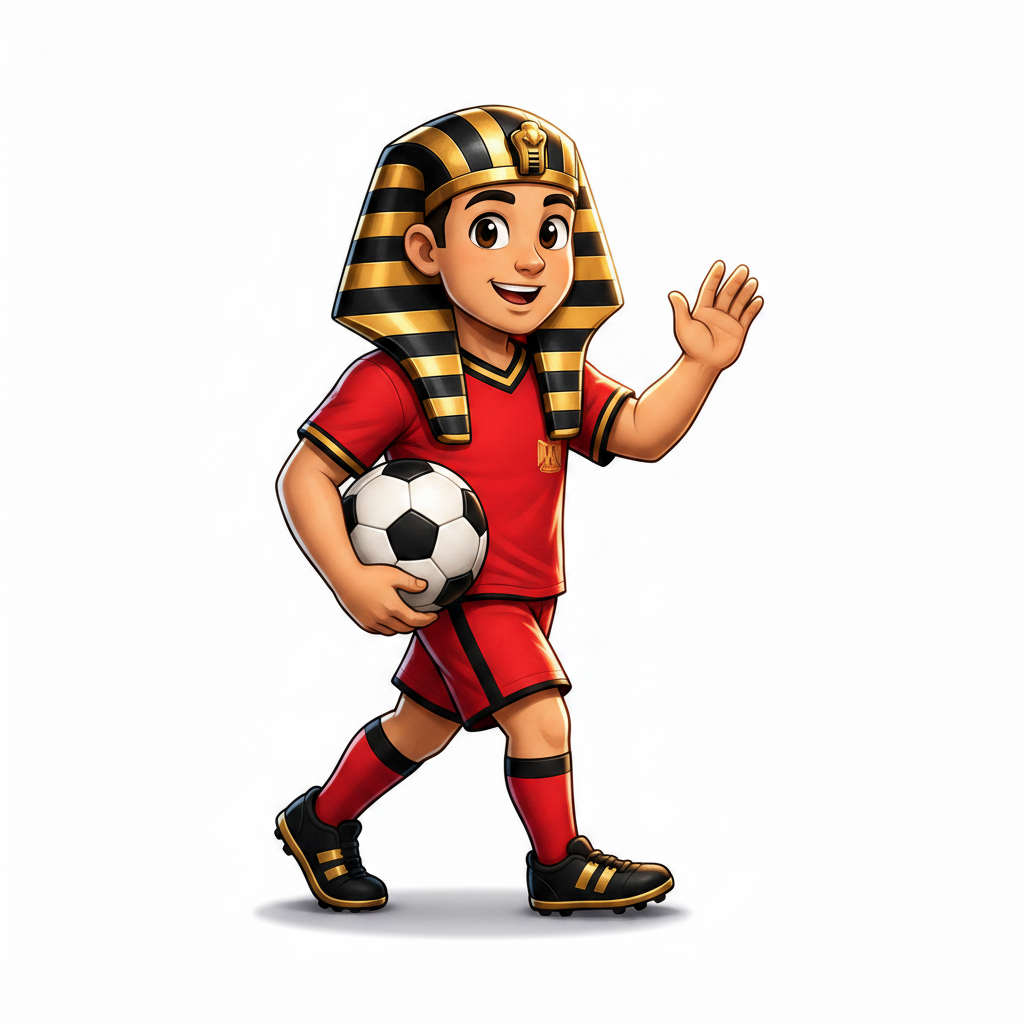
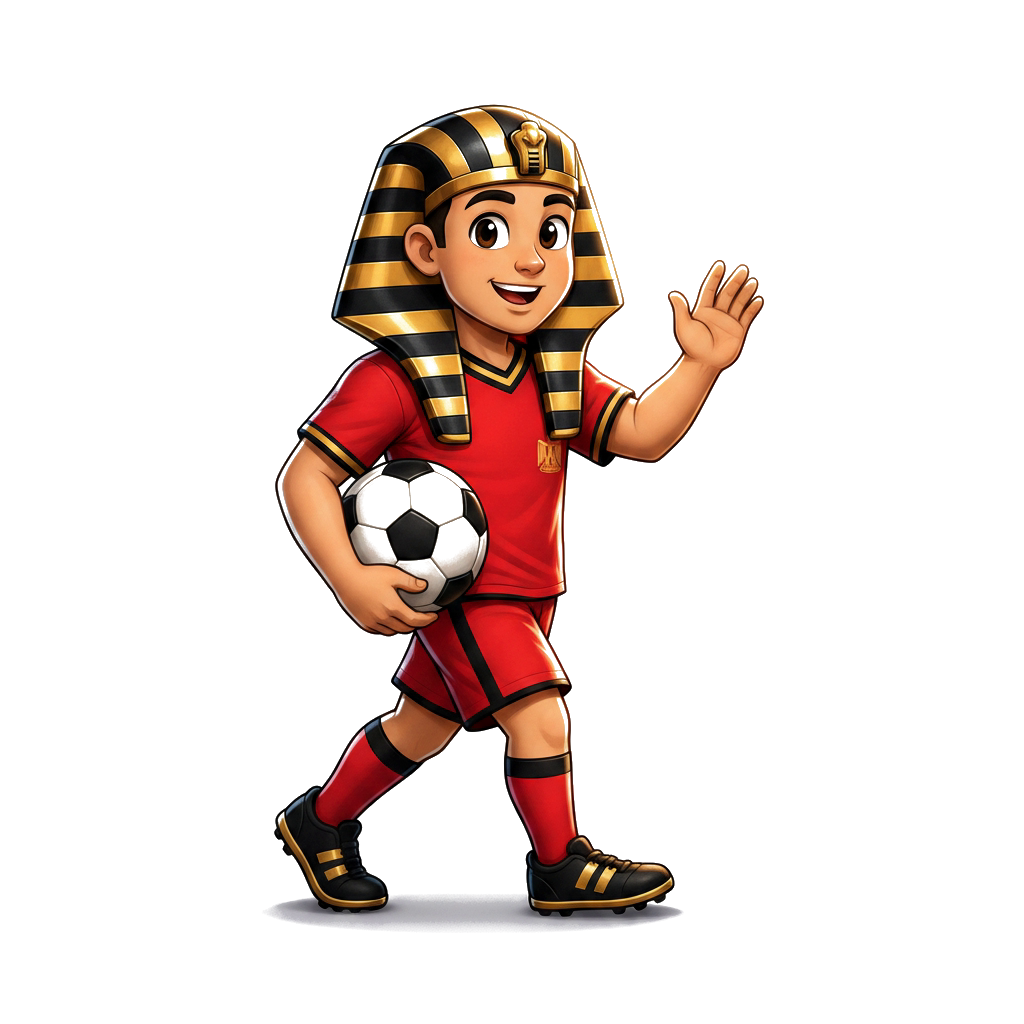
fix(intro+outro): kill white-box Pharaoh background
User reported the Pharaoh in the 05:21 UTC intro card had a visible
white square around it. Root cause: IntroCard.tsx and OutroCard.tsx
both rendered pose PNGs via raw <Img> without the WhiteKey runtime
processing that Host.tsx applies in per-segment scenes. The original
author intentionally skipped runtime keying expecting the drop-shadow
+ radial spotlight to mask the white edges, but at 1080p production
res the white rectangle reads clearly through the gradient backdrop.

Two-part fix, both zero-overhead:

1. IntroCard now uses OffthreadVideo loop muted on celebrating.webm
   (the alpha-baked WebM generated yesterday). Bonus: the natural
   breath/blink motion baked into the Higgsfield I2V clip makes the
   intro feel like the Pharaoh is greeting the viewer rather than a
   static sticker pasted on the card.

2. OutroCard's walk-out-right.png pre-keyed in-place via
   `ffmpeg colorkey=0xFFFFFF:0.18:0.08` — gives the PNG a real alpha
   channel so the raw <Img> composites cleanly. Host.tsx's pose-mode
   WhiteKey processing on the same asset is a harmless no-op now
   (already-transparent pixels stay transparent, opaque body pixels
   aren't near-white so they're untouched).

celebrating.png was also pre-keyed defensively even though IntroCard
no longer needs it — if any future code consumes the static PNG,
they'll get a transparent version automatically.

diff --git a/remotion/src/components/IntroCard.tsx b/remotion/src/components/IntroCard.tsx
@@ -5,6 +5,7 @@ import {
   useCurrentFrame,
   useVideoConfig,
   Img,
+  OffthreadVideo,
   staticFile,
 } from "remotion";
 import { loadFont } from "@remotion/google-fonts/Cairo";
@@ -14,7 +15,16 @@ import { loadFont } from "@remotion/google-fonts/Cairo";
 // to expect a personality, not just a news ticker. We use the
 // `celebrating` pose (arms up, joyful) — reads as "welcome to the
 // show" and matches the WC 2026 hype framing.
-const PHARAOH_CELEBRATING = staticFile("poses/celebrating.png");
+//
+// Source asset (May 28 2026 upgrade): the looped pre-keyed WebM with
+// alpha (Higgsfield image-to-video → ffmpeg chromakey). Previously
+// this was a raw .png and the white background visibly showed through
+// the gradient backdrop — the drop-shadow + spotlight that were meant
+// to mask the white edges weren't enough at 1080p production res.
+// The WebM has natural breathing/blinking motion so the intro now
+// reads as "the Pharaoh is alive and greeting you" rather than a
+// static sticker pasted on the card.
+const PHARAOH_CELEBRATING_WEBM = staticFile("poses/celebrating.webm");
 
 loadFont("normal", {
   weights: ["700", "800", "900"],
@@ -251,13 +261,12 @@ export const IntroCard: React.FC<IntroCardProps> = ({
         </span>
       </div>
 
-      {/* Pharaoh mascot — anchored bottom-center, half the frame height.
+      {/* Pharaoh mascot — anchored bottom-center, ~42% frame height.
           Sits BEHIND text via z-index because the gradient backdrop sits
-          underneath everything. The pose PNG has a white background that
-          gets knocked-out at runtime by Host's whiteKey system in the
-          per-segment scenes; for the intro/outro we composite with a
-          tinted radial spotlight underneath so the white edges blend
-          into the gradient without needing the heavy keying step. */}
+          underneath everything. Pre-keyed WebM (alpha channel baked in by
+          ffmpeg chromakey) — no runtime keying needed, composites cleanly
+          on the gradient. Plays the natural breath/blink motion baked into
+          the Higgsfield I2V clip, looped for the 3-second intro. */}
       <div
         style={{
           position: "absolute",
@@ -281,8 +290,10 @@ export const IntroCard: React.FC<IntroCardProps> = ({
             pointerEvents: "none",
           }}
         />
-        <Img
-          src={PHARAOH_CELEBRATING}
+        <OffthreadVideo
+          src={PHARAOH_CELEBRATING_WEBM}
+          loop
+          muted
           style={{
             position: "absolute",
             inset: 0,
@@ -290,7 +301,6 @@ export const IntroCard: React.FC<IntroCardProps> = ({
             height: "100%",
             objectFit: "contain",
             objectPosition: "bottom center",
-            mixBlendMode: "normal",
           }}
         />
       </div>

diff --git a/remotion/src/components/OutroCard.tsx b/remotion/src/components/OutroCard.tsx
@@ -13,6 +13,13 @@ import { loadFont } from "@remotion/google-fonts/Cairo";
 // over shoulder, waving goodbye). Reinforces the "see you next round"
 // cadence the CTA text promises ("تابعوني — أنا بَنزّل ٤ مرّات في اليوم").
 // Placed bottom-left so it doesn't crowd the centered handle + button.
+//
+// Source asset is pre-keyed (May 28 2026) — the original PNG had a
+// solid white background which showed through the dark outro gradient
+// as a visible white rectangle. ffmpeg `colorkey=0xFFFFFF:0.18:0.08`
+// was applied in-place to give the asset a proper alpha channel.
+// Host.tsx's runtime WhiteKey processing is a no-op on an already-keyed
+// PNG, so the pose-mode render path still works correctly.
 const PHARAOH_WAVE_GOODBYE = staticFile("poses/walk-out-right.png");
 
 loadFont("normal", {